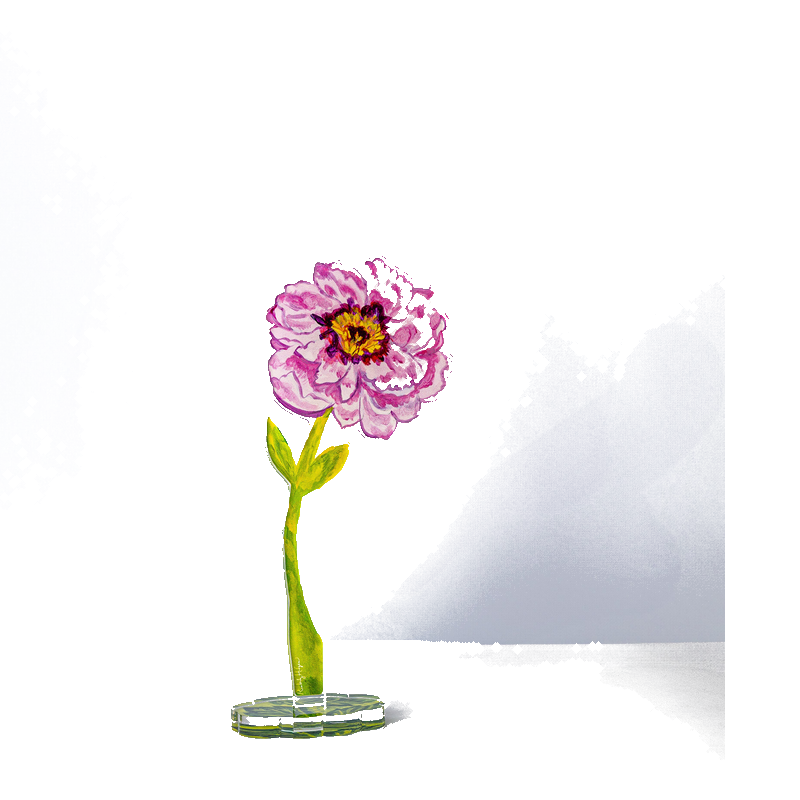
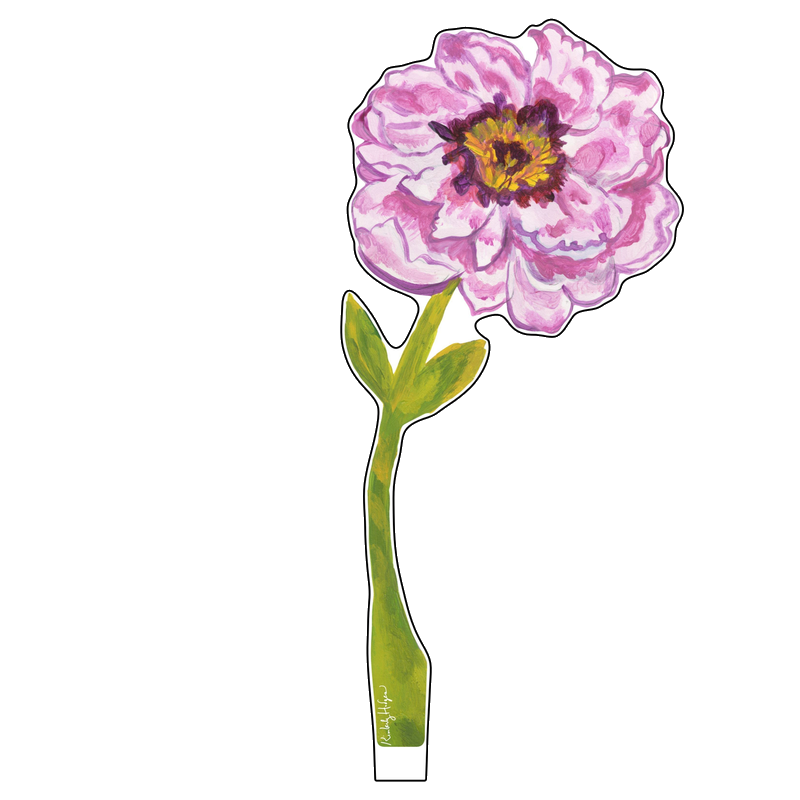
fix: lavender peony background, pin Node 22 for Vercel, add analytics
- Replace lavender peony product photo with proper UUID cutout image
  for clean background removal
- Pin Node.js to 22.x to fix Vercel npm install failures on Node 24
- Add Vercel Analytics

Changed region(s): [[0.2812, 0.0312, 0.9062, 0.9688], [0.4688, 0.9688, 0.5312, 1.0]]

diff --git a/src/data/catalog.ts b/src/data/catalog.ts
@@ -167,8 +167,8 @@ export const flowers: FlowerProduct[] = [
     },
     dimensions: { height: 8.88, width: 6.49 },
     images: {
-      thumbnail: `${CDN}/Lavender_Peony.jpg`,
-      cutout: `${CDN}/Lavender_Peony.jpg`,
+      thumbnail: `${CDN}/Lavender_Peony_d5512f67-dda9-4d3d-b786-a2ea4d517f03.jpg`,
+      cutout: `${CDN}/Lavender_Peony_d5512f67-dda9-4d3d-b786-a2ea4d517f03.jpg`,
     },
   },
   {

diff --git a/src/main.tsx b/src/main.tsx
@@ -1,10 +1,12 @@
 import { StrictMode } from "react";
 import { createRoot } from "react-dom/client";
+import { Analytics } from "@vercel/analytics/react";
 import "./index.css";
 import App from "./App";
 
 createRoot(document.getElementById("root")!).render(
   <StrictMode>
     <App />
+    <Analytics />
   </StrictMode>
 );
